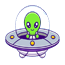
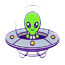
Version con estrellas

diff --git a/alien_invasion.py b/alien_invasion.py
@@ -1,4 +1,5 @@
 import sys
+from random import randint
 
 import pygame
 
@@ -6,6 +7,7 @@ from settings import Settings
 from ship import Ship
 from bullet import Bullet
 from alien import Alien
+from star import Star
 
 class AlienInvasion:
     """Clase general para gestionar los recursos y el comportamiento del juego"""
@@ -21,7 +23,9 @@ class AlienInvasion:
         self.ship = Ship(self)
         self.bullets = pygame.sprite.Group()    # sirve para agrupar los sprites de las balas
         self.aliens = pygame.sprite.Group()
-
+        self.stars = pygame.sprite.Group()
+        
+        self._create_stars()
         self._create_fleet()
 
         # Configura el color de fondo
@@ -121,9 +125,45 @@ class AlienInvasion:
         alien.rect.y = alien.rect.height + 2 * alien.rect.height * row_number
         self.aliens.add(alien)
 
+    def _create_stars(self):
+        """Create a sky full of stars."""
+        # Create an star and find the number of stars in a row.
+        # Spacing between each star is equal to two star widths.
+        star = Star(self)
+        star_width, star_height = star.rect.size
+        available_space_x = self.settings.screen_width - (star_width)
+        number_stars_x = available_space_x // (2 * star_width)
+        
+        # Determine the number of rows of stars that fit on the screen.
+        #   We'll just fill most of the screen with stars.
+        available_space_y = (self.settings.screen_height -
+                                (2 * star_height))
+        number_rows = available_space_y // (2 * star_height)
+        
+        # Fill the sky with stars.
+        for row_number in range(number_rows):
+            for star_number in range(number_stars_x):
+                self._create_star(star_number, row_number)
+
+    def _create_star(self, star_number, row_number):
+        """Create an star and place it in the row."""
+        star = Star(self)
+        star_width, star_height = star.rect.size
+        star.rect.x = star_width + 2 * star_width * star_number
+        star.rect.y = star.rect.height + 2 * star.rect.height * row_number
+
+        # Randomize the positions of the stars.
+        #  This effect looks much better with a tiny star. If you're curious,
+        #  you might want to play around with the spacing a little.
+        star.rect.x += randint(-5, 5)
+        star.rect.y += randint(-5, 5)
+
+        self.stars.add(star)
+
     def _update_screen(self):
         # Redibuja la pantalla en cada paso por el bucle
         self.screen.fill(self.settings.bg_color)
+        self.stars.draw(self.screen)
         self.ship.blitme()
         for bullet in self.bullets.sprites():
             bullet.draw_bullet()

diff --git a/star.py b/star.py
@@ -7,10 +7,10 @@ class Star(Sprite):
         self.screen = ai_game.screen
 
         # Carga la imagen de la estrella y configura su atributo rect
-        self.image = pygame.image.load("images/star.png")
+        self.image = pygame.image.load("images/star-redimensioned.png")
         self.rect = self.image.get_rect()
 
-        # Inicia un nuevo alien cerca de la parte superior izquierda de la pantalla
+        # Inicia una nueva estrella cerca de la parte superior izquierda de la pantalla
         self.rect.x = self.rect.width
         self.rect.y = self.rect.height
 

diff --git a/settings.py b/settings.py
@@ -9,11 +9,11 @@ class Settings:
         self.bg_color = (230, 230, 230)
 
         # Configuracion de la velocidad de la nave
-        self.ship_speed = 1.5
+        self.ship_speed = 3
 
         # Configuracion de las balas
-        self.bullet_speed = 1.0
+        self.bullet_speed = 2
         self.bullet_width = 3
         self.bullet_height = 15
         self.bullet_color = (255,0,0)   # color rojo en este caso: RGB
-        self.bullets_allowed = 4
+        self.bullets_allowed = 10
